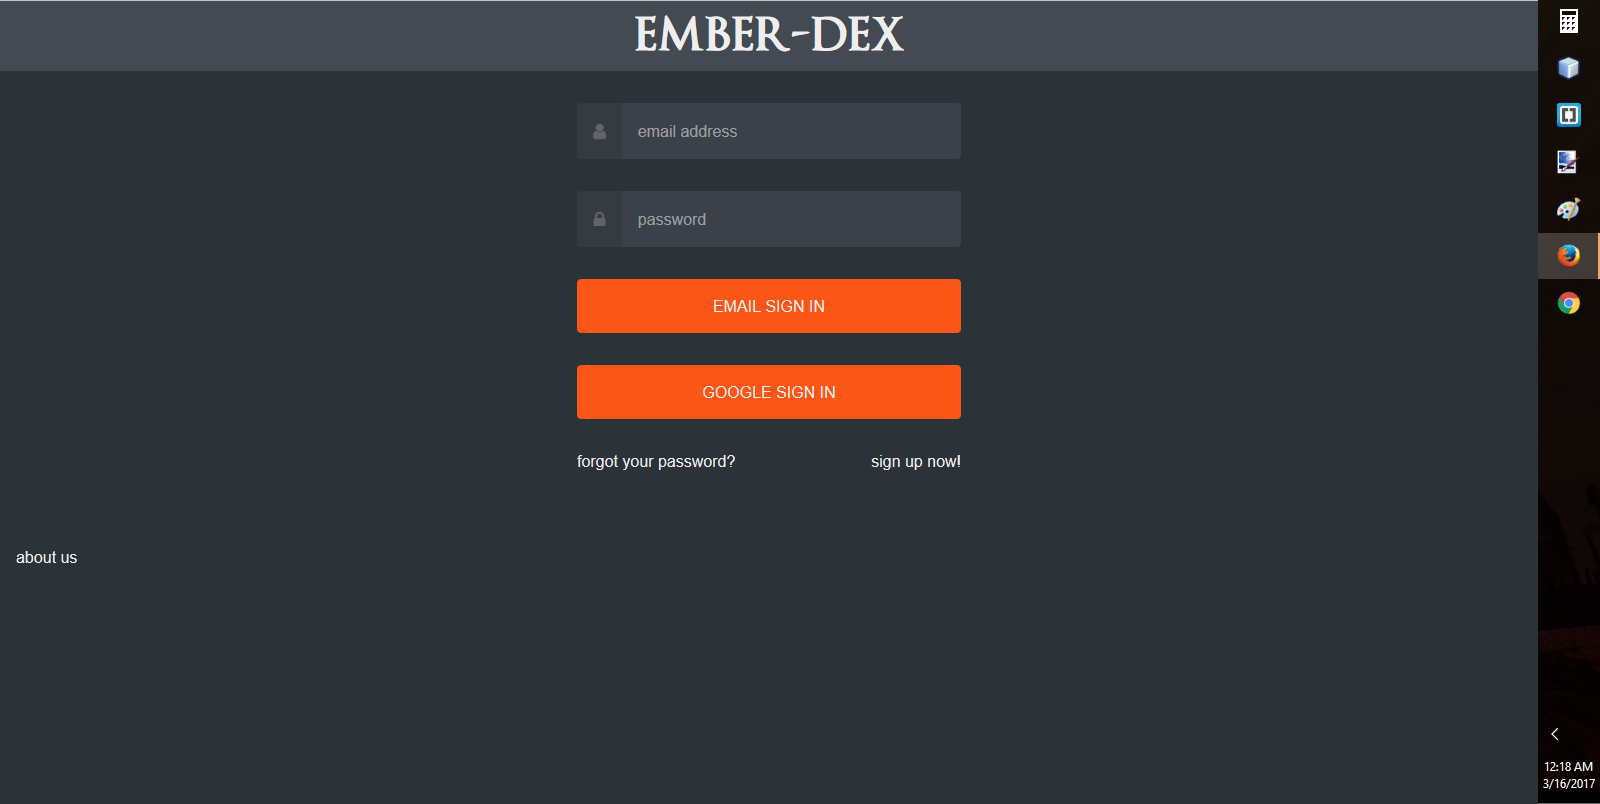
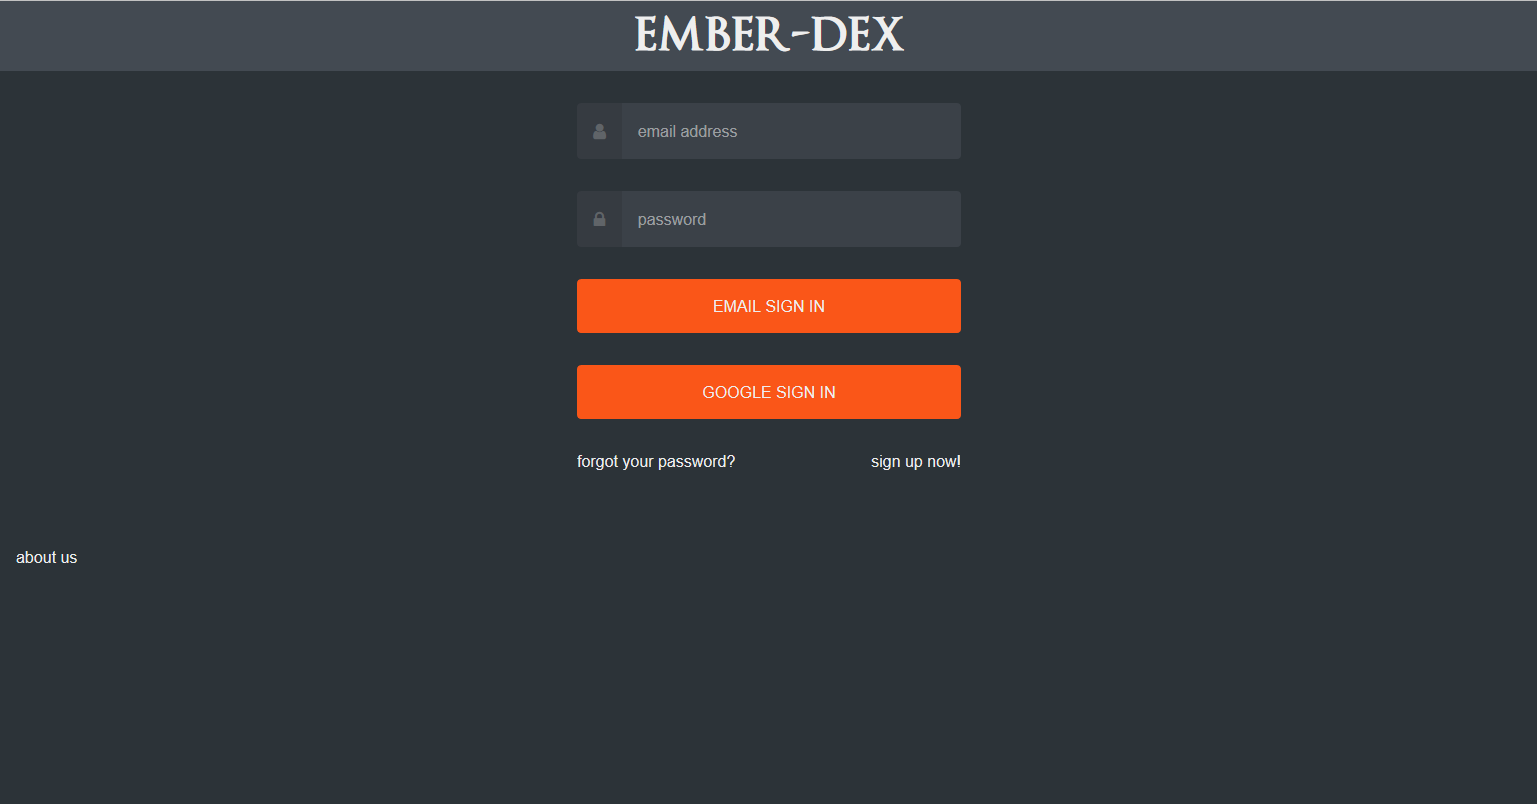
fixed picture and updated README

diff --git a/README.md b/README.md
@@ -1,6 +1,6 @@
 # Ember-Dex
 # Available at: https://ember-dex.firebaseapp.com
-# [Homework 4 has been moved to ember-dex-framework](https://ember-dex-framework.firebaseapp.com)
+# Homework 4 has been moved to: https://ember-dex-framework.firebaseapp.com
 Ember-Dex is a web application that allows users to track their favorite character from the popular Dark Souls video game series. Users can sign in to search for and view important character information, and also store personal notes
 
 ![home page](/screenshots/home-page.png)
@@ -22,7 +22,7 @@ Similar to our HTML, we've split our CSS into only app.css and team.css. Because
 ## JavaScript
 All of our external JavaScript code is split between app.js and service.js. These files hold all of the necessary  code for implementing a service worker, navigating between pages, and connecting with firebase for CRUD operations. Our service.js file is a standard service worker script that manages install, fetch, and activate requests so that we can provide a significantly better experience with cached content, as well as an offline experience in conjunction with our manifest.json file. Our app.js contains all of the code used for managing firebase interactions, navigating between  different pages within our single page framework, and using cached local storage as a fallback when the network is not available.
 
-###### Navigation
+## Navigation
 When opening our application, a splash page will appear until the minimum resources are loaded. Depending on if the user has not logged in yet, they will be greeted by our sign in page where they can sign in with email or google. If they have forgotten their password or wish to create an email account, they can navigate to separate pages to perform these actions. Once the user has signed in, they will automatically be sent to the home page. Every available character will be displayed here, and they can simply click on a potrait to be sent to the view character page to see relevant data and their personal notes corresponding to the clicked character. If the user wishes to change settings or log out, they can click the Options selector for these choices.
 
 ![siginin page](/screenshots/signin-page.png)
